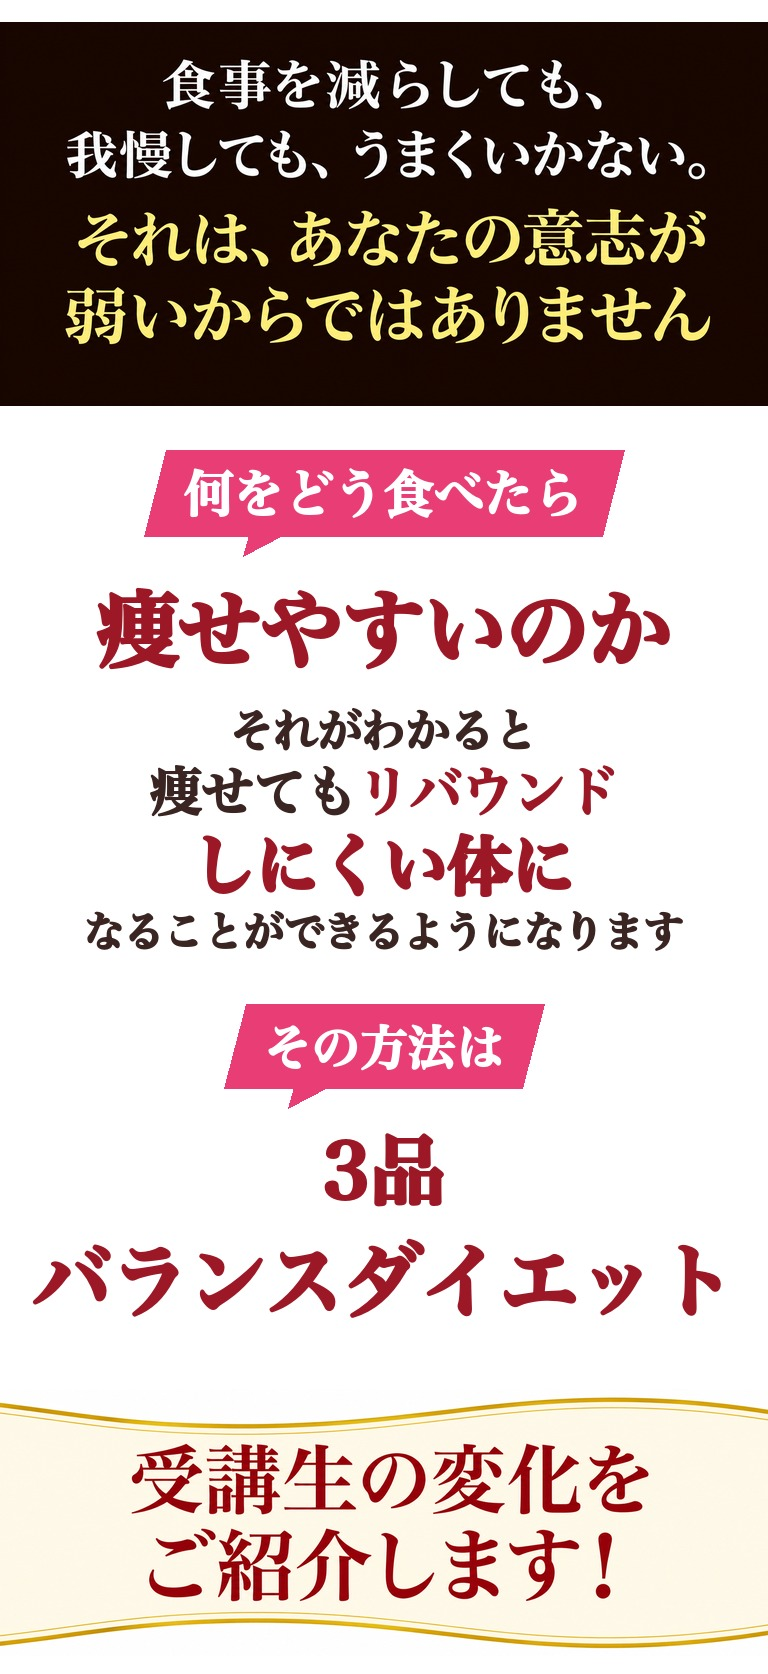
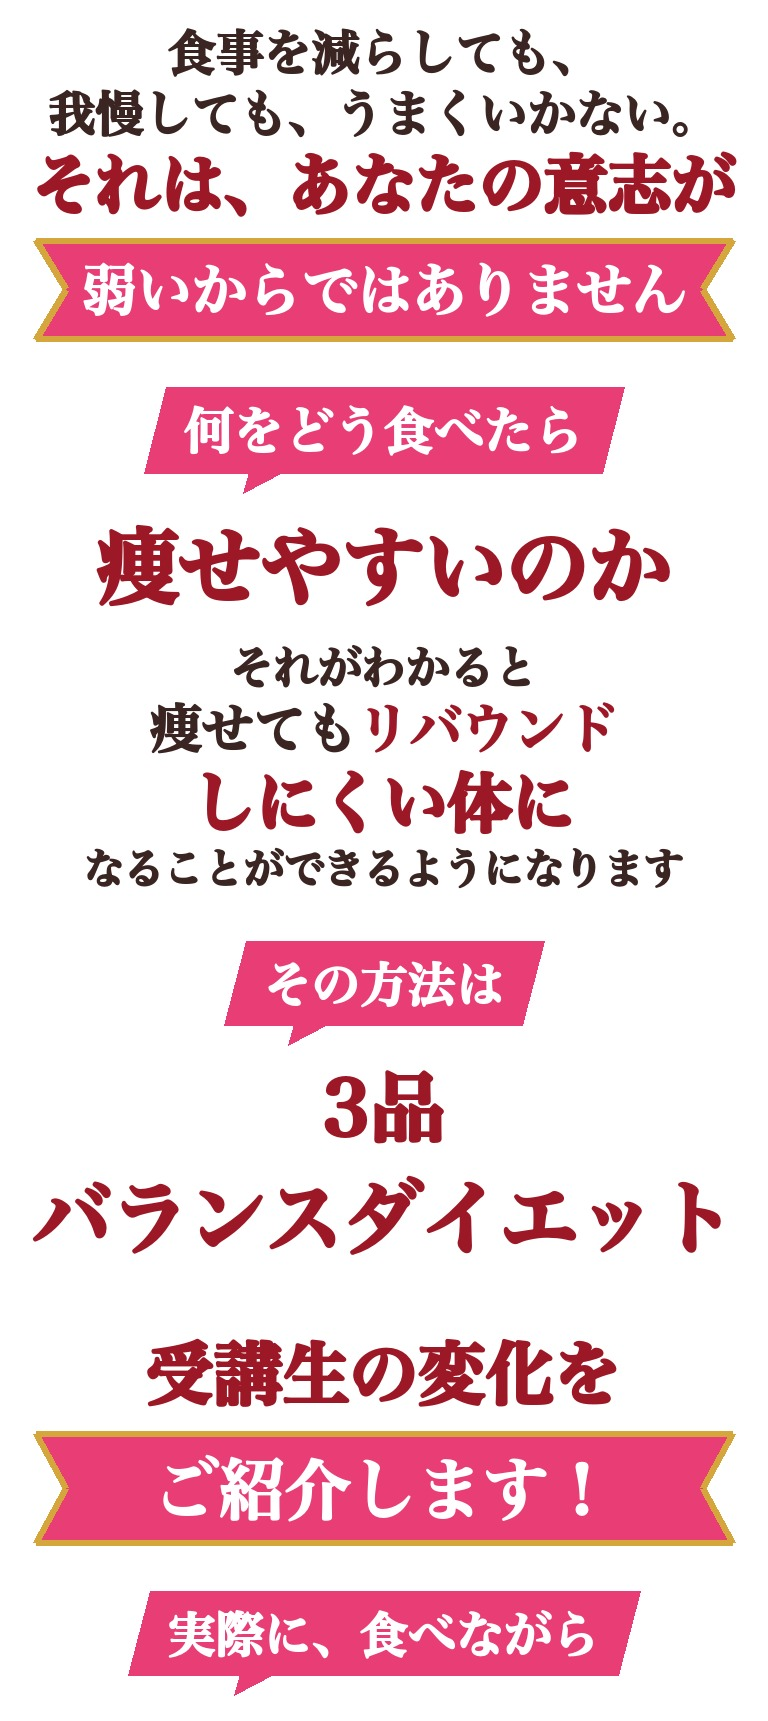
確認用ページ：残りの部分も統一デザインにそろえる

diff --git a/preview/index.html b/preview/index.html
@@ -2,4 +2,4 @@
 <style>body{margin:0;background:#fff}.w{max-width:480px;margin:0 auto}.w img{display:block;width:100%}
 .sticky{position:fixed;left:0;right:0;bottom:0;background:rgba(255,255,255,.95);padding:10px 14px;border-top:3px solid #f6b3c0}
 .sticky a{position:relative;display:flex;align-items:center;justify-content:center;max-width:420px;margin:0 auto;background:#06c755;color:#fff;font-weight:800;font-size:16px;white-space:nowrap;padding:0 40px 0 62px;height:58px;border-radius:999px;text-decoration:none;font-family:"Hiragino Sans",sans-serif;box-shadow:0 5px 0 #04964a;border:2px solid #7ce6a6;box-sizing:border-box}.sticky .ic{position:absolute;left:12px;top:50%;transform:translateY(-50%);width:42px;height:38px;background:#fff;border-radius:13px;color:#06c755;font-size:13px;font-weight:900;display:flex;align-items:center;justify-content:center;letter-spacing:-.5px}.sticky .ic:after{content:"";position:absolute;left:9px;bottom:-7px;border-left:6px solid transparent;border-right:6px solid transparent;border-top:9px solid #fff;transform:skewX(20deg)}.sticky .ar{position:absolute;right:18px;top:50%;transform:translateY(-50%);border-left:14px solid #fff;border-top:10px solid transparent;border-bottom:10px solid transparent}</style></head>
-<body><div class="w"><img src="q01.jpg?v=16" alt=""><a href="https://lin.ee/VeUwJHO"><img src="q02.jpg?v=16" alt=""></a><img src="q03.jpg?v=16" alt=""><img src="q04.jpg?v=16" alt=""><img src="q05.jpg?v=16" alt=""><img src="q06.jpg?v=16" alt=""><img src="q07.jpg?v=16" alt=""><img src="q08.jpg?v=16" alt=""><a href="https://lin.ee/VeUwJHO"><img src="q09.jpg?v=16" alt=""></a><img src="q10.jpg?v=16" alt=""><img src="q11.jpg?v=16" alt=""><img src="q12.jpg?v=16" alt=""><img src="q13.jpg?v=16" alt=""><img src="q14.jpg?v=16" alt=""><a href="https://lin.ee/VeUwJHO"><img src="q15.jpg?v=16" alt=""></a><img src="q16.jpg?v=16" alt=""><a href="https://lin.ee/VeUwJHO"><img src="q17.jpg?v=16" alt=""></a></div><div class="sticky"><a href="https://lin.ee/VeUwJHO"><span class="ic">LINE</span>教材＋レシピを無料で受け取る<span class="ar"></span></a></div></body></html>
+<body><div class="w"><img src="q01.jpg?v=17" alt=""><a href="https://lin.ee/VeUwJHO"><img src="q02.jpg?v=17" alt=""></a><img src="q03.jpg?v=17" alt=""><img src="q04.jpg?v=17" alt=""><img src="q05.jpg?v=17" alt=""><img src="q06.jpg?v=17" alt=""><img src="q07.jpg?v=17" alt=""><img src="q08.jpg?v=17" alt=""><a href="https://lin.ee/VeUwJHO"><img src="q09.jpg?v=17" alt=""></a><img src="q10.jpg?v=17" alt=""><img src="q11.jpg?v=17" alt=""><img src="q12.jpg?v=17" alt=""><img src="q13.jpg?v=17" alt=""><img src="q14.jpg?v=17" alt=""><a href="https://lin.ee/VeUwJHO"><img src="q15.jpg?v=17" alt=""></a><img src="q16.jpg?v=17" alt=""><a href="https://lin.ee/VeUwJHO"><img src="q17.jpg?v=17" alt=""></a></div><div class="sticky"><a href="https://lin.ee/VeUwJHO"><span class="ic">LINE</span>教材＋レシピを無料で受け取る<span class="ar"></span></a></div></body></html>
